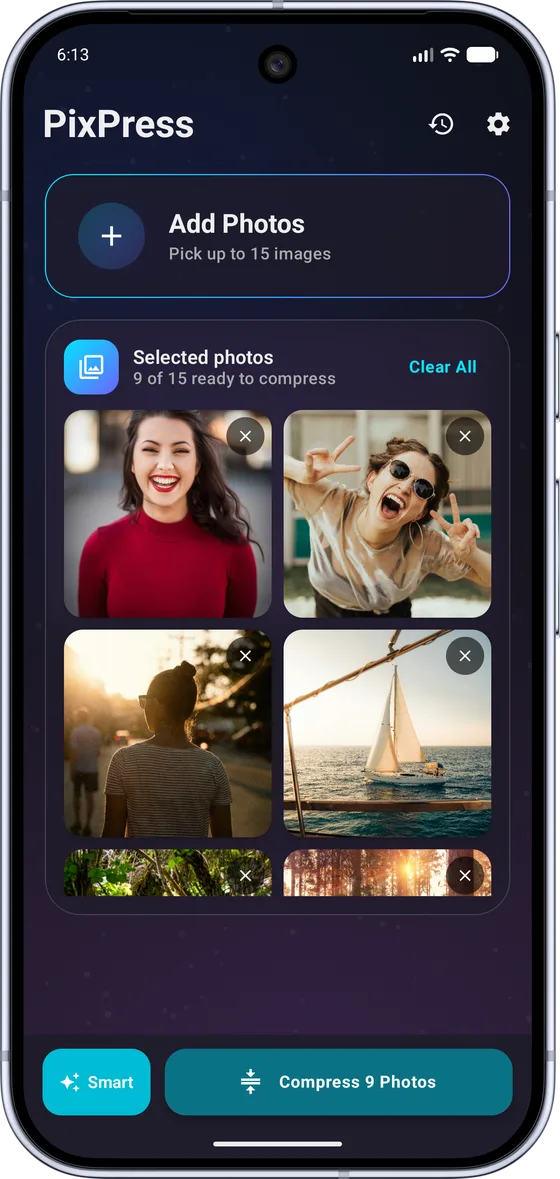
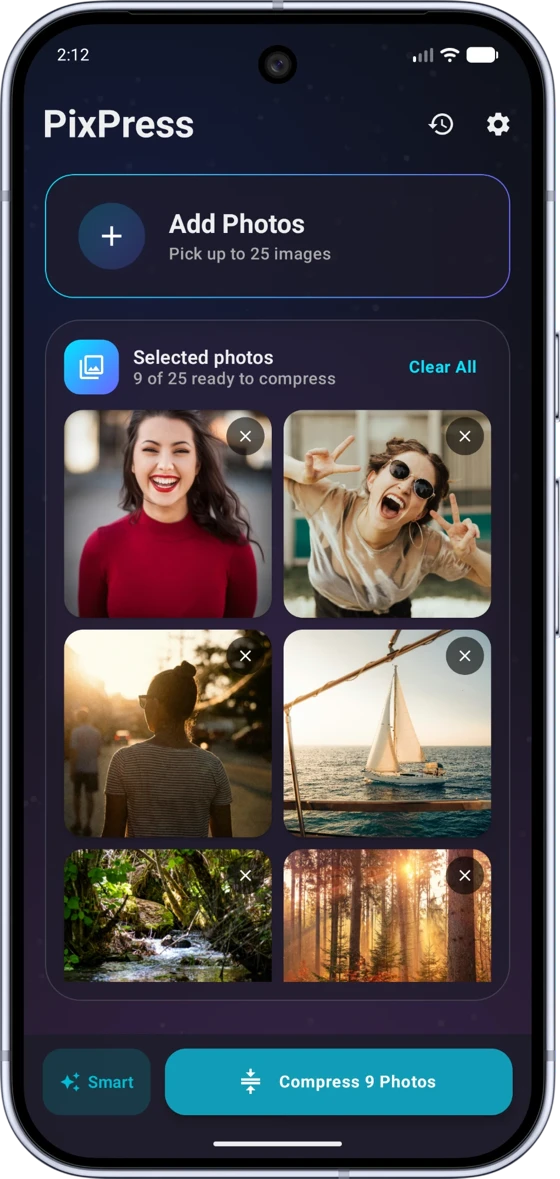
Fix stale content and add hover descriptions to feature tiles
Updates preset count, renames Passport Photo to ID Photo, corrects
language count to 10, refreshes the batch-mode screenshot, and adds
a hover-reveal description overlay to each Features grid tile so
visitors get more detail without added visual clutter.

diff --git a/index.html b/index.html
@@ -231,11 +231,11 @@
           <span>Precision target range</span>
         </div>
         <div class="stat-chip reveal">
-          <strong>15</strong>
+          <strong>16</strong>
           <span>Ready-made presets</span>
         </div>
         <div class="stat-chip reveal">
-          <strong>11</strong>
+          <strong>10</strong>
           <span>Languages supported</span>
         </div>
       </div>
@@ -253,62 +253,95 @@
 
       <div class="bento-grid stagger">
         <article class="bento-card bento-tile reveal">
-          <div class="feature-icon"><svg viewBox="0 0 24 24" fill="none" stroke="currentColor" stroke-width="1.8" stroke-linecap="round" stroke-linejoin="round"><circle cx="12" cy="12" r="9"/><circle cx="12" cy="12" r="5"/><circle cx="12" cy="12" r="1.3" fill="currentColor" stroke="none"/></svg></div>
-          <h3>Hit an exact KB target</h3>
-          <span class="bento-tag">Size Limit mode</span>
+          <div class="tile-front">
+            <div class="feature-icon"><svg viewBox="0 0 24 24" fill="none" stroke="currentColor" stroke-width="1.8" stroke-linecap="round" stroke-linejoin="round"><circle cx="12" cy="12" r="9"/><circle cx="12" cy="12" r="5"/><circle cx="12" cy="12" r="1.3" fill="currentColor" stroke="none"/></svg></div>
+            <h3>Hit an exact KB target</h3>
+            <span class="bento-tag">Size Limit mode</span>
+          </div>
+          <p class="bento-desc">Type any KB target from 10 to 5,000. A binary-search algorithm converges on that exact file size, not just a rough guess.</p>
         </article>
 
         <article class="bento-card bento-tile reveal">
-          <div class="feature-icon"><svg viewBox="0 0 24 24" fill="none" stroke="currentColor" stroke-width="1.8" stroke-linecap="round" stroke-linejoin="round"><rect x="3" y="4" width="18" height="16" rx="2"/><path d="M12 4v16"/><rect x="12" y="4" width="9" height="16" fill="currentColor" opacity="0.22" stroke="none"/></svg></div>
-          <h3>See it before you save it</h3>
-          <span class="bento-tag">Before/after slider</span>
+          <div class="tile-front">
+            <div class="feature-icon"><svg viewBox="0 0 24 24" fill="none" stroke="currentColor" stroke-width="1.8" stroke-linecap="round" stroke-linejoin="round"><rect x="3" y="4" width="18" height="16" rx="2"/><path d="M12 4v16"/><rect x="12" y="4" width="9" height="16" fill="currentColor" opacity="0.22" stroke="none"/></svg></div>
+            <h3>See it before you save it</h3>
+            <span class="bento-tag">Before/after slider</span>
+          </div>
+          <p class="bento-desc">Drag a fullscreen slider to compare the original and compressed photo side by side before you save or share, so you know exactly what you're trading away.</p>
         </article>
 
         <article class="bento-card bento-tile reveal">
-          <div class="feature-icon"><svg viewBox="0 0 24 24" fill="none" stroke="currentColor" stroke-width="1.8" stroke-linecap="round" stroke-linejoin="round"><path d="M12 2 2 7l10 5 10-5-10-5Z"/><path d="m2 17 10 5 10-5"/><path d="m2 12 10 5 10-5"/></svg></div>
-          <h3>Smart, automatic format</h3>
+          <div class="tile-front">
+            <div class="feature-icon"><svg viewBox="0 0 24 24" fill="none" stroke="currentColor" stroke-width="1.8" stroke-linecap="round" stroke-linejoin="round"><path d="M12 2 2 7l10 5 10-5-10-5Z"/><path d="m2 17 10 5 10-5"/><path d="m2 12 10 5 10-5"/></svg></div>
+            <h3>Smart, automatic format</h3>
+          </div>
+          <p class="bento-desc">Smart mode compresses to both WebP and JPEG behind the scenes and automatically keeps whichever comes out smaller, no format knowledge needed.</p>
         </article>
 
         <article class="bento-card bento-tile reveal">
-          <div class="feature-icon"><svg viewBox="0 0 24 24" fill="none" stroke="currentColor" stroke-width="1.8" stroke-linecap="round" stroke-linejoin="round"><rect x="3" y="3" width="7" height="7" rx="1.5"/><rect x="14" y="3" width="7" height="7" rx="1.5"/><rect x="3" y="14" width="7" height="7" rx="1.5"/><rect x="14" y="14" width="7" height="7" rx="1.5"/></svg></div>
-          <h3>15 ready-made presets</h3>
+          <div class="tile-front">
+            <div class="feature-icon"><svg viewBox="0 0 24 24" fill="none" stroke="currentColor" stroke-width="1.8" stroke-linecap="round" stroke-linejoin="round"><rect x="3" y="3" width="7" height="7" rx="1.5"/><rect x="14" y="3" width="7" height="7" rx="1.5"/><rect x="3" y="14" width="7" height="7" rx="1.5"/><rect x="14" y="14" width="7" height="7" rx="1.5"/></svg></div>
+            <h3>16 ready-made presets</h3>
+          </div>
+          <p class="bento-desc">One-tap presets tuned for UPSC, SSC, IBPS, Railway and other exam forms, plus WhatsApp, Instagram, Telegram and X, so you never have to guess a size.</p>
         </article>
 
         <article class="bento-card bento-tile reveal">
-          <div class="feature-icon"><svg viewBox="0 0 24 24" fill="none" stroke="currentColor" stroke-width="1.8" stroke-linecap="round" stroke-linejoin="round"><rect x="3" y="3" width="14" height="14" rx="2"/><circle cx="8" cy="8" r="1.2"/><path d="M3.5 14.5 7 11l2.5 2.5L14 9l3.5 3.5"/><path d="M17 7h3a1 1 0 0 1 1 1v11a1 1 0 0 1-1 1H9a1 1 0 0 1-1-1v-3"/></svg></div>
-          <h3>Compress a whole album at once</h3>
-          <span class="bento-tag">Batch mode</span>
+          <div class="tile-front">
+            <div class="feature-icon"><svg viewBox="0 0 24 24" fill="none" stroke="currentColor" stroke-width="1.8" stroke-linecap="round" stroke-linejoin="round"><rect x="3" y="3" width="14" height="14" rx="2"/><circle cx="8" cy="8" r="1.2"/><path d="M3.5 14.5 7 11l2.5 2.5L14 9l3.5 3.5"/><path d="M17 7h3a1 1 0 0 1 1 1v11a1 1 0 0 1-1 1H9a1 1 0 0 1-1-1v-3"/></svg></div>
+            <h3>Compress a whole album at once</h3>
+            <span class="bento-tag">Batch mode</span>
+          </div>
+          <p class="bento-desc">Select up to 25 photos free (200 for subscribers) and compress them all in one pass to the same target size or preset, instead of one at a time.</p>
         </article>
 
         <article class="bento-card bento-tile reveal">
-          <div class="feature-icon"><svg viewBox="0 0 24 24" fill="none" stroke="currentColor" stroke-width="1.8" stroke-linecap="round" stroke-linejoin="round"><path d="M12 21s7-7.5 7-12a7 7 0 1 0-14 0c0 4.5 7 12 7 12Z"/><circle cx="12" cy="9" r="2.3"/><path d="M4 4l16 16"/></svg></div>
-          <h3>Full metadata control</h3>
+          <div class="tile-front">
+            <div class="feature-icon"><svg viewBox="0 0 24 24" fill="none" stroke="currentColor" stroke-width="1.8" stroke-linecap="round" stroke-linejoin="round"><path d="M12 21s7-7.5 7-12a7 7 0 1 0-14 0c0 4.5 7 12 7 12Z"/><circle cx="12" cy="9" r="2.3"/><path d="M4 4l16 16"/></svg></div>
+            <h3>Full metadata control</h3>
+          </div>
+          <p class="bento-desc">Choose exactly what EXIF data to keep or strip, including GPS location, so you can share a photo without leaking where or when it was taken.</p>
         </article>
 
         <article class="bento-card bento-tile reveal">
-          <div class="feature-icon"><svg viewBox="0 0 24 24" fill="none" stroke="currentColor" stroke-width="1.8" stroke-linecap="round" stroke-linejoin="round"><path d="M3 12a9 9 0 1 0 3-6.7L3 8"/><path d="M3 3v5h5"/><path d="M12 7v5l4 2"/></svg></div>
-          <h3>Full compression history</h3>
+          <div class="tile-front">
+            <div class="feature-icon"><svg viewBox="0 0 24 24" fill="none" stroke="currentColor" stroke-width="1.8" stroke-linecap="round" stroke-linejoin="round"><path d="M3 12a9 9 0 1 0 3-6.7L3 8"/><path d="M3 3v5h5"/><path d="M12 7v5l4 2"/></svg></div>
+            <h3>Full compression history</h3>
+          </div>
+          <p class="bento-desc">Every photo you've compressed is saved to a history you can revisit, re-share or re-export any time, even after you've closed the app.</p>
         </article>
 
         <article class="bento-card bento-tile reveal">
-          <div class="feature-icon"><svg viewBox="0 0 24 24" fill="none" stroke="currentColor" stroke-width="1.8" stroke-linecap="round" stroke-linejoin="round"><path d="M7 3h7l4 4v13a1 1 0 0 1-1 1H7a1 1 0 0 1-1-1V4a1 1 0 0 1 1-1Z"/><path d="M14 3v4h4"/><path d="M9 13h1.6a1.4 1.4 0 1 1 0 2.8H9V13Zm0 0v5.5"/></svg></div>
-          <h3>Turn results into a PDF</h3>
-          <span class="bento-tag">PDF export</span>
+          <div class="tile-front">
+            <div class="feature-icon"><svg viewBox="0 0 24 24" fill="none" stroke="currentColor" stroke-width="1.8" stroke-linecap="round" stroke-linejoin="round"><path d="M7 3h7l4 4v13a1 1 0 0 1-1 1H7a1 1 0 0 1-1-1V4a1 1 0 0 1 1-1Z"/><path d="M14 3v4h4"/><path d="M9 13h1.6a1.4 1.4 0 1 1 0 2.8H9V13Zm0 0v5.5"/></svg></div>
+            <h3>Turn results into a PDF</h3>
+            <span class="bento-tag">PDF export</span>
+          </div>
+          <p class="bento-desc">Pack your compressed photos into a single PDF: a single page, a compact grid, or a print sheet layout, ready to upload or share.</p>
         </article>
 
         <article class="bento-card bento-tile reveal">
-          <div class="feature-icon"><svg viewBox="0 0 24 24" fill="none" stroke="currentColor" stroke-width="1.8" stroke-linecap="round" stroke-linejoin="round"><path d="M4 6h9"/><path d="M8.5 3.5v2"/><path d="M6.5 6c0 3-1.7 5.3-4 6.8"/><path d="M9 6c.6 2.3 2 4.2 3.6 5.6"/><path d="M15 20l4-9 4 9"/><path d="M16.3 17h5.4"/></svg></div>
-          <h3>11 languages</h3>
+          <div class="tile-front">
+            <div class="feature-icon"><svg viewBox="0 0 24 24" fill="none" stroke="currentColor" stroke-width="1.8" stroke-linecap="round" stroke-linejoin="round"><path d="M4 6h9"/><path d="M8.5 3.5v2"/><path d="M6.5 6c0 3-1.7 5.3-4 6.8"/><path d="M9 6c.6 2.3 2 4.2 3.6 5.6"/><path d="M15 20l4-9 4 9"/><path d="M16.3 17h5.4"/></svg></div>
+            <h3>10 languages</h3>
+          </div>
+          <p class="bento-desc">Fully translated into English, Hindi, German, Spanish, French, Arabic, Italian, Portuguese, Japanese and Chinese.</p>
         </article>
 
         <article class="bento-card bento-tile reveal">
-          <div class="feature-icon"><svg viewBox="0 0 24 24" fill="none" stroke="currentColor" stroke-width="1.8" stroke-linecap="round" stroke-linejoin="round"><rect x="2" y="8" width="20" height="8" rx="4"/><circle cx="15.5" cy="12" r="3.1" fill="currentColor" stroke="none"/><circle cx="7" cy="12" r="1.3"/><path d="M7 9.2v-.9M7 14.8v.9M4.7 12h-.9M9.3 12h.9" stroke-width="1.4"/></svg></div>
-          <h3>Built-in dark mode</h3>
+          <div class="tile-front">
+            <div class="feature-icon"><svg viewBox="0 0 24 24" fill="none" stroke="currentColor" stroke-width="1.8" stroke-linecap="round" stroke-linejoin="round"><rect x="2" y="8" width="20" height="8" rx="4"/><circle cx="15.5" cy="12" r="3.1" fill="currentColor" stroke="none"/><circle cx="7" cy="12" r="1.3"/><path d="M7 9.2v-.9M7 14.8v.9M4.7 12h-.9M9.3 12h.9" stroke-width="1.4"/></svg></div>
+            <h3>Built-in dark mode</h3>
+          </div>
+          <p class="bento-desc">PixPress follows your system theme automatically, with a properly designed dark mode instead of just inverted colors.</p>
         </article>
 
         <article class="bento-card bento-tile reveal">
-          <div class="feature-icon"><svg viewBox="0 0 24 24" fill="none" stroke="currentColor" stroke-width="1.8" stroke-linecap="round" stroke-linejoin="round"><path d="M8 3H5a2 2 0 0 0-2 2v3"/><path d="M21 8V5a2 2 0 0 0-2-2h-3"/><path d="M3 16v3a2 2 0 0 0 2 2h3"/><path d="M16 21h3a2 2 0 0 0 2-2v-3"/></svg></div>
-          <h3>Never makes it bigger</h3>
+          <div class="tile-front">
+            <div class="feature-icon"><svg viewBox="0 0 24 24" fill="none" stroke="currentColor" stroke-width="1.8" stroke-linecap="round" stroke-linejoin="round"><path d="M8 3H5a2 2 0 0 0-2 2v3"/><path d="M21 8V5a2 2 0 0 0-2-2h-3"/><path d="M3 16v3a2 2 0 0 0 2 2h3"/><path d="M16 21h3a2 2 0 0 0 2-2v-3"/></svg></div>
+            <h3>Never makes it bigger</h3>
+          </div>
+          <p class="bento-desc">If compressing would somehow make a file larger than the original, PixPress keeps your original instead of handing you a worse, bigger file.</p>
         </article>
       </div>
     </div>
@@ -331,7 +364,7 @@
         <div class="step reveal">
           <div class="step-number">2</div>
           <h3>Choose a size or preset</h3>
-          <p>Type an exact KB target, or tap a ready-made preset like UPSC Photo, WhatsApp or Passport Photo.</p>
+          <p>Type an exact KB target, or tap a ready-made preset like UPSC Photo, WhatsApp or ID Photo.</p>
         </div>
         <div class="step reveal">
           <div class="step-number">3</div>
@@ -369,7 +402,7 @@
             <p>Switch to Size Limit mode and enter 10&ndash;5000 KB, or tap a ready-made exam preset. A binary-search algorithm converges on that exact size, entirely on your device.</p>
             <ul class="showcase-list">
               <li><svg viewBox="0 0 24 24" fill="none" stroke="currentColor" stroke-width="2" stroke-linecap="round" stroke-linejoin="round"><path d="M20 6 9 17l-5-5"/></svg>Smart, Custom &amp; Size Limit modes</li>
-              <li><svg viewBox="0 0 24 24" fill="none" stroke="currentColor" stroke-width="2" stroke-linecap="round" stroke-linejoin="round"><path d="M20 6 9 17l-5-5"/></svg>15 destination &amp; exam presets</li>
+              <li><svg viewBox="0 0 24 24" fill="none" stroke="currentColor" stroke-width="2" stroke-linecap="round" stroke-linejoin="round"><path d="M20 6 9 17l-5-5"/></svg>16 destination &amp; exam presets</li>
             </ul>
           </div>
           <div class="showcase-shot"><img src="assets/img/screenshot-settings.webp" alt="Real PixPress screenshot: Compression Settings screen with Size Limit mode and a 100 KB target" width="560" height="1179" loading="lazy"></div>
@@ -463,7 +496,7 @@
           <ul>
             <li>UPSC, SSC, IBPS, RRB, Banking, NEET, JEE &amp; state PSC portals</li>
             <li>Exact KB targets like 20 KB, 50 KB, 100 KB or 200 KB</li>
-            <li>Dedicated Exam Photo, Exam Signature &amp; Passport Photo presets</li>
+            <li>Dedicated Exam Photo, Exam Signature, Railway Signature &amp; ID Photo presets</li>
           </ul>
         </div>
       </div>

diff --git a/assets/css/style.css b/assets/css/style.css
@@ -801,11 +801,26 @@ h1, h2, h3 { color: var(--color-ink); font-weight: 800; letter-spacing: -0.02em;
 
 .bento-tile {
   grid-column: span 1;
+  position: relative;
+  min-height: 128px;
   padding: 18px;
+  overflow: hidden;
+}
+.bento-tile .tile-front {
   display: flex;
   flex-direction: column;
   gap: 12px;
   justify-content: center;
+  height: 100%;
+  transition: opacity 0.3s ease, transform 0.35s cubic-bezier(.34,1.56,.64,1);
+}
+.bento-card:hover .tile-front,
+.bento-card:focus-within .tile-front {
+  opacity: 0;
+  transform: scale(0.92);
+}
+@media (prefers-reduced-motion: reduce) {
+  .bento-tile .tile-front { transition: none; }
 }
 .bento-tile .feature-icon {
   width: 40px; height: 40px;
@@ -839,6 +854,30 @@ h1, h2, h3 { color: var(--color-ink); font-weight: 800; letter-spacing: -0.02em;
   transition: color 0.25s ease;
 }
 .bento-card:hover .bento-tag { color: var(--color-primary); }
+
+.bento-desc {
+  position: absolute;
+  inset: 0;
+  margin: 0;
+  padding: 18px;
+  display: flex;
+  align-items: center;
+  font-size: 0.82rem;
+  line-height: 1.5;
+  color: var(--color-text-secondary);
+  opacity: 0;
+  transform: scale(1.06);
+  transition: opacity 0.3s ease, transform 0.35s cubic-bezier(.34,1.56,.64,1);
+  pointer-events: none;
+}
+.bento-card:hover .bento-desc,
+.bento-card:focus-within .bento-desc {
+  opacity: 1;
+  transform: scale(1);
+}
+@media (prefers-reduced-motion: reduce) {
+  .bento-desc { transition: none; }
+}
 
 /* ---------- How it works ---------- */
 .steps {
